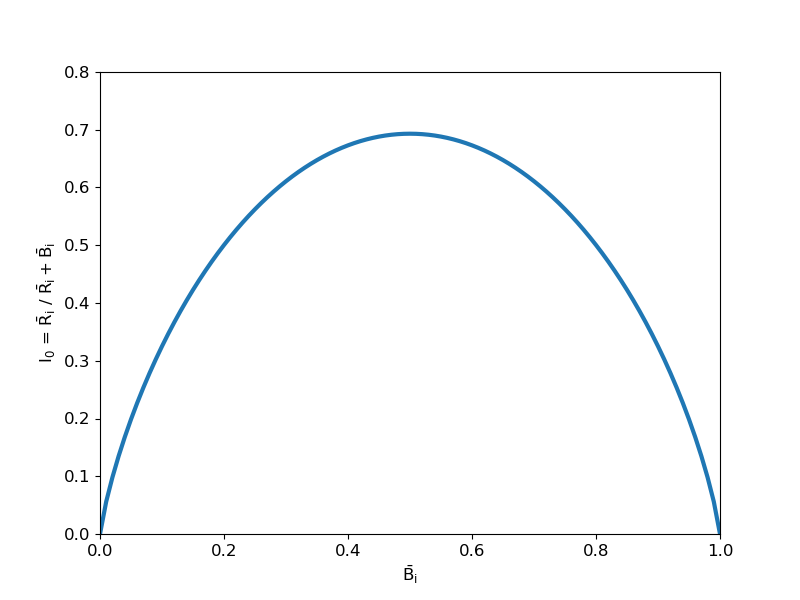
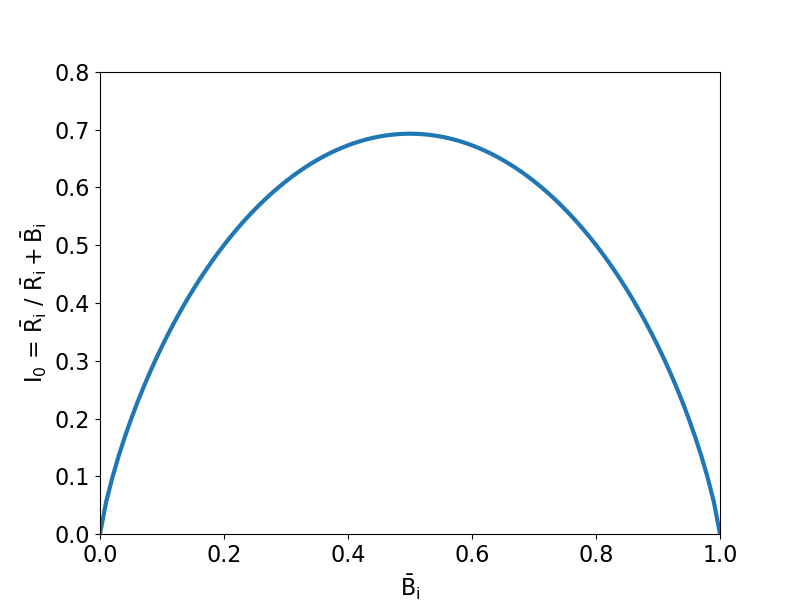
Edit and replotted nah + misc

diff --git a/execute/plots/nash_equilibrium.py b/execute/plots/nash_equilibrium.py
@@ -5,14 +5,14 @@ from utilities import balls_per_node
 from execute.import_data import load_airport_and_route
 from execute.run_polya import run_polya
 from utilities.plotting import plot_infection
-from utilities import save_trials, load_csv_col, dict_to_arr
+from utilities import save_trials, load_csv_col
 from numpy import array
 
 # Define constants
 fresh_data = False
-time_limit = 25
+time_limit = 250
 fig_path = '../../results/nash/optimal.png'
-data_path = '../../data/nash/optimal.png'
+data_path = '../../data/nash/optimal.csv'
 
 if fresh_data:
     # Generate graph
@@ -35,10 +35,10 @@ if fresh_data:
 
     # Associate names to distributions
     distribution_names = [
-        '(R, B)',
-        '(R*, B)',
-        '(R, B*)',
-        '(R*, B*)'
+        '$(R, B)$',
+        '$(R^*, B)$',
+        '$(R, B^*)$',
+        '$(R^*, B^*)$'
     ]
 
     # Calculate exposures
@@ -57,4 +57,4 @@ exposures = exposures[:, :time_limit]
 
 # Save and plot data
 if fresh_data: save_trials(exposures, data_path, titles=distribution_names)
-plot_infection(exposures, multiple=True, leg=distribution_names, file_name=fig_path, size=(9, 6), font_size=18, leg_loc=(.7, .9))
+plot_infection(exposures, multiple=True, leg=distribution_names, file_name=fig_path, size=(9, 6), font_size=18, leg_loc=(.7, .95))

diff --git a/model/network.py b/model/network.py
@@ -1,8 +1,7 @@
 from typing import List
 from utilities import balls_per_node, generate_plot_network, calculate_exposure, save_network
 from model.polya_node import polya_node
-# from model.optimize.optimize import get_optimization_method
-from numpy import zeros, empty, uint16
+from numpy import zeros, empty, uint16, array
 from random import random
 from networkx import spring_layout
 from utilities.plotting import plot_optimized_network

diff --git a/execute/network/optimized_network.py b/execute/network/optimized_network.py
@@ -17,7 +17,7 @@ weights = multiply(add(weights, -min_val), 1/delt)
 
 print(len(airports))
 
-path = '../../results/network/optimal.png'
+path = '../../results/network/optimal.csv'
 # plot_net_w_routes(airports, routes, plot_edges=False, weights=weights, file_name=path)
 netx = from_edgelist(routes)
 plot_network(netx, netx_plot=True, weights=weights, file_name=path, plot_edges=True, size=(10, 6))

diff --git a/execute/plots/binary_entropy.py b/execute/plots/binary_entropy.py
@@ -6,7 +6,7 @@ x = linspace(0, 1, 101)
 y = array([-a * log(a) + -(1-a) * log(1-a) if a != 0 and a != 1 else 0 for a in x])
 
 fig = figure(figsize=fig_size)
-rcParams.update({'font.size': 12, 'mathtext.default': 'regular'})
+rcParams.update({'font.size': 16, 'mathtext.default': 'regular'})
 ax = fig.gca()
 
 ax.plot(x, y, linewidth=3)
